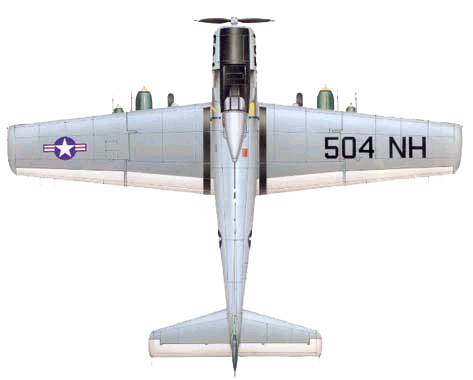
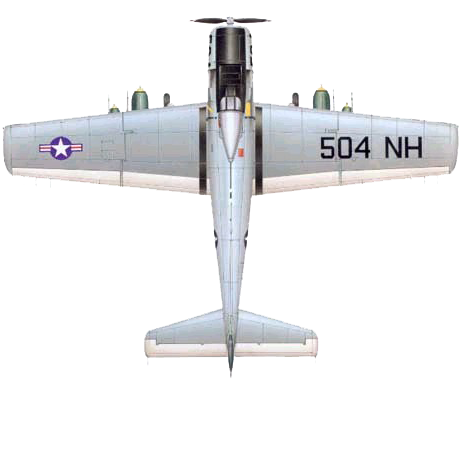
images replacing

Changed region(s): [[0.0, 0.0289, 1.0, 0.9842]]

diff --git a/js/airrush.js b/js/airrush.js
@@ -70,7 +70,7 @@ Airrush.prototype.addPlane = function() {
 
 	var planeProperies = {};
 		planeProperies.width = 100,
-		planeProperies.height = planeProperies.width * 0.8, //image proporions, see doc.txt
+		planeProperies.height = planeProperies.width, //images should be square
 		planeProperies.top = this.viewportHeigth - planeProperies.height - 20,
 		planeProperies.left = this.viewportWidth / 2 - planeProperies.width / 2 - planeStatesAverangeOffset
 
